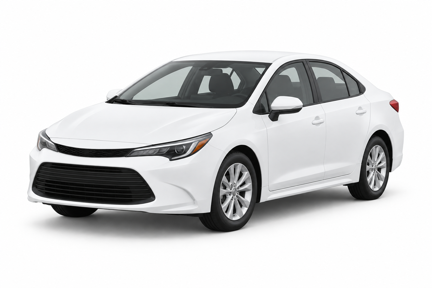
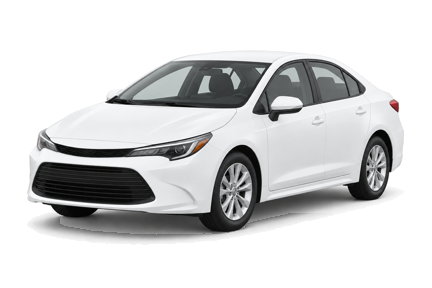
fix: give the car render a transparent background for both themes
The white backdrop is cut away and the floor shadow becomes translucent black, so tariff cards and the upgrade card no longer show grey boxes in the dark theme.

diff --git a/frontend/src/components/ui-kit/TariffCard.tsx b/frontend/src/components/ui-kit/TariffCard.tsx
@@ -9,7 +9,7 @@ interface TariffCardProps extends Omit<ComponentProps<'button'>, 'children'> {
 }
 /**
  * Figma «TariffCard» 21:81: 176×64, radius 10; Selected — subtle background with a 1.5px black border,
- * Default — white with a 1px border and a 45% car. `mix-blend-multiply` drops the render's white background.
+ * Default — canvas with a 1px border and a 45% car; the car render has a transparent background.
  */
 export function TariffCard({
   name,
@@ -47,7 +47,7 @@ export function TariffCard({
         alt=""
         draggable={false}
         className={cn(
-          'pointer-events-none h-[58px] w-[86px] shrink-0 object-cover mix-blend-multiply transition-opacity duration-150 dark:rounded-md dark:mix-blend-normal',
+          'pointer-events-none h-[58px] w-[86px] shrink-0 object-contain transition-opacity duration-150',
           !selected && 'opacity-45',
         )}
       />

diff --git a/frontend/src/pages/passenger/ride/UpgradeCard.tsx b/frontend/src/pages/passenger/ride/UpgradeCard.tsx
@@ -43,7 +43,7 @@ function ClassShift({ from, to }: { from: Tariff; to: Tariff }) {
           src={carImage}
           alt=""
           draggable={false}
-          className="absolute top-0 left-[calc(50%-22px)] h-7 w-11 object-contain mix-blend-multiply motion-safe:animate-car-glide dark:mix-blend-screen dark:invert"
+          className="absolute top-0 left-[calc(50%-22px)] h-7 w-11 object-contain motion-safe:animate-car-glide"
         />
       </span>
       <ArrowRight className="size-4 shrink-0 text-brand-sky-ink" />
